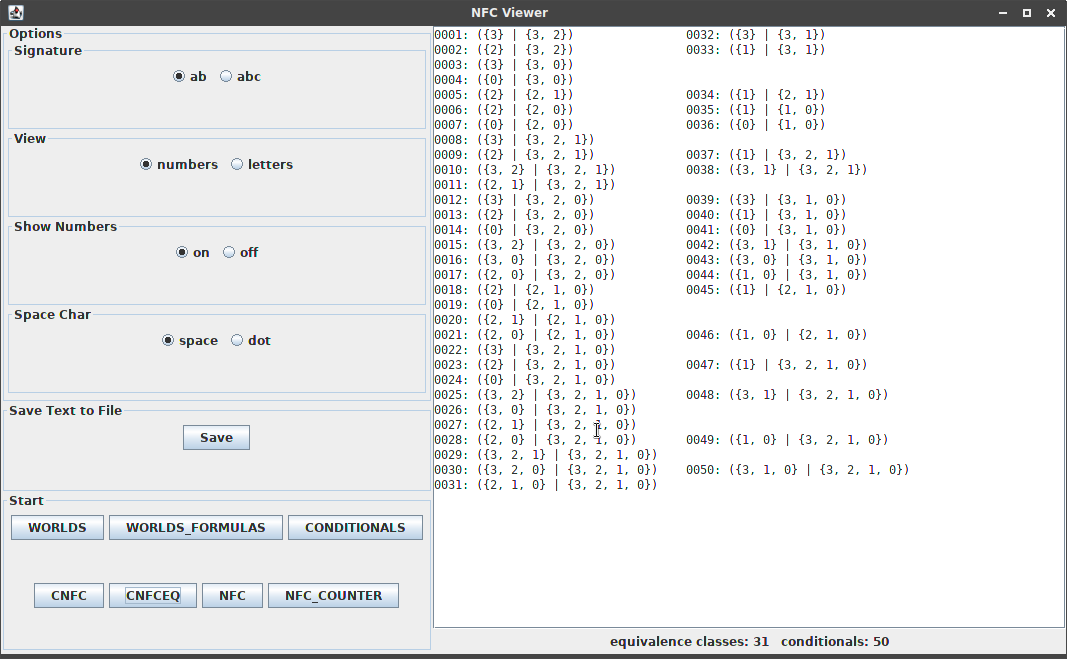
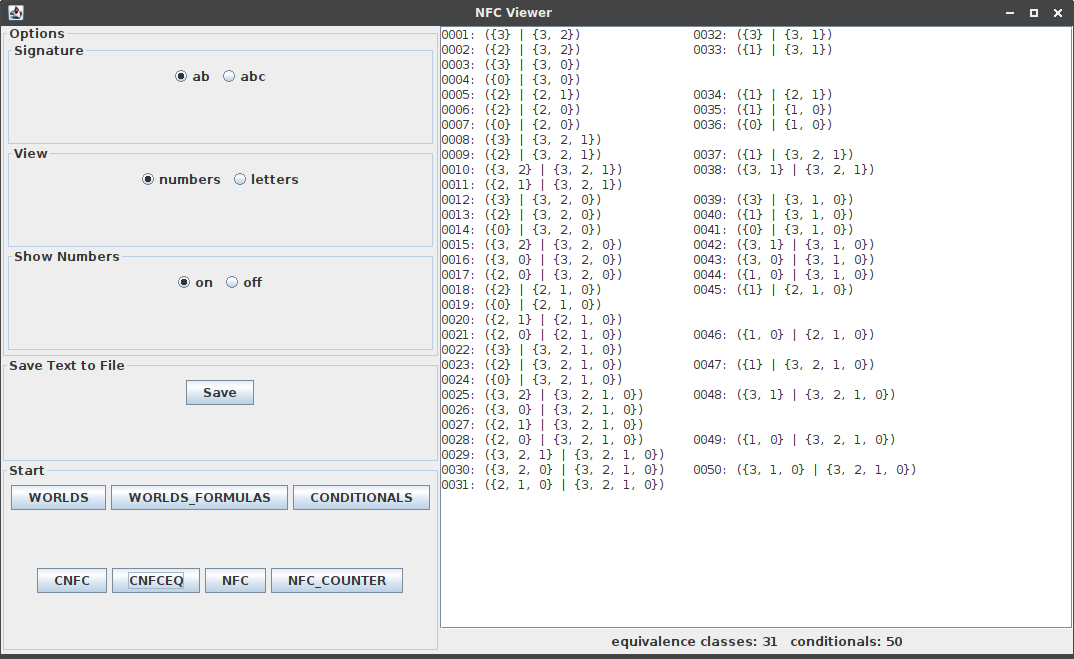
updated screenshot nfc viewer

diff --git a/ma.tex b/ma.tex
@@ -562,7 +562,7 @@ Der NfcCreator hat eine kleine grafische Oberfläche namens \textit{NfcViewer}, 
 
 
 \begin{figure}
-\includegraphics[width=0.9\linewidth]{bilder/nfc-viewer.png}
+\includegraphics[width=0.9\linewidth]{bilder/NfcViewer.png}
 
 \caption{Screenshot NFC Viewer mit Ansicht analog zu Tabelle 1 aus \cite{beierle19}}
 \label{pic:nfc-viewer}
@@ -571,7 +571,7 @@ Der NfcCreator hat eine kleine grafische Oberfläche namens \textit{NfcViewer}, 
 
 
 Der grundsätzliche Aufbau der GUI des NfcViewers besteht aus zwei Teilen. Links befinden sich im oberen Bereich die Optionen, darunter befinden sich die Buttons mit den möglichen Aktionen. Auf der rechten Seite ist ein Textfenster, welches das Ergebnis der gewählten Optionen und Aktion zeigt. Unter dem Textfeld steht jeweils eine kurze Beschreibung des Inhalts des Textfeldes. \\
-Im Folgenden werden die Optionen im Menü erklärt. Die Auswahl der Signature bietet selbsterklärend die Möglichkeiten $ab$ und $abc$. Die Option \textit{View} stellt ein, ob eine mögliche Welt in Buchstabenform oder als Repräsentation als Zahl analog der Darstellung in \cite{beierle19} erfolgen soll. Beispielsweise wird so mit Signatur$\Sigma_{ab}$ die mögliche Welt $a \overline{b}$ entweder als $a!b$ oder als 2 dargestellt. Mit der Option \textit{ShowNumbers} lässt sich einstellen, ob die angezeigten Objekte, beispielsweise Konditionale, nummeriert dargestellt werden sollen oder nicht. Die letzte Option \textit{SpaceChar} stellt einen Platzhalter für mehrere auf einer Zeile angezeigte Objekte ein. Im Screenshot ist die Option auf Space gesetzt. Wird Dot aktiviert, werden zeilenweise kleine Punkte angezeigt, damit der Betrachter die Zeilen am Bildschirm etwas leichter verfolgen kann als auf rein weißem Untergrund. Das untenliegende Feld bietet mit dem Save Button die Möglichkeit, den Inhalt des Textfensters zu speichern.
+Im Folgenden werden die Optionen im Menü erklärt. Die Auswahl der Signature bietet selbsterklärend die Möglichkeiten $ab$ und $abc$. Die Option \textit{View} stellt ein, ob eine mögliche Welt in Buchstabenform oder als Repräsentation als Zahl analog der Darstellung in \cite{beierle19} erfolgen soll. Beispielsweise wird so mit Signatur$\Sigma_{ab}$ die mögliche Welt $a \overline{b}$ entweder als $a!b$ oder als 2 dargestellt. Mit der Option \textit{ShowNumbers} lässt sich einstellen, ob die angezeigten Objekte, beispielsweise Konditionale, nummeriert dargestellt werden sollen oder nicht. Das untenliegende Feld bietet mit dem Save Button die Möglichkeit, den Inhalt des Textfensters in eine Textdatei zu speichern.
 
 
 
